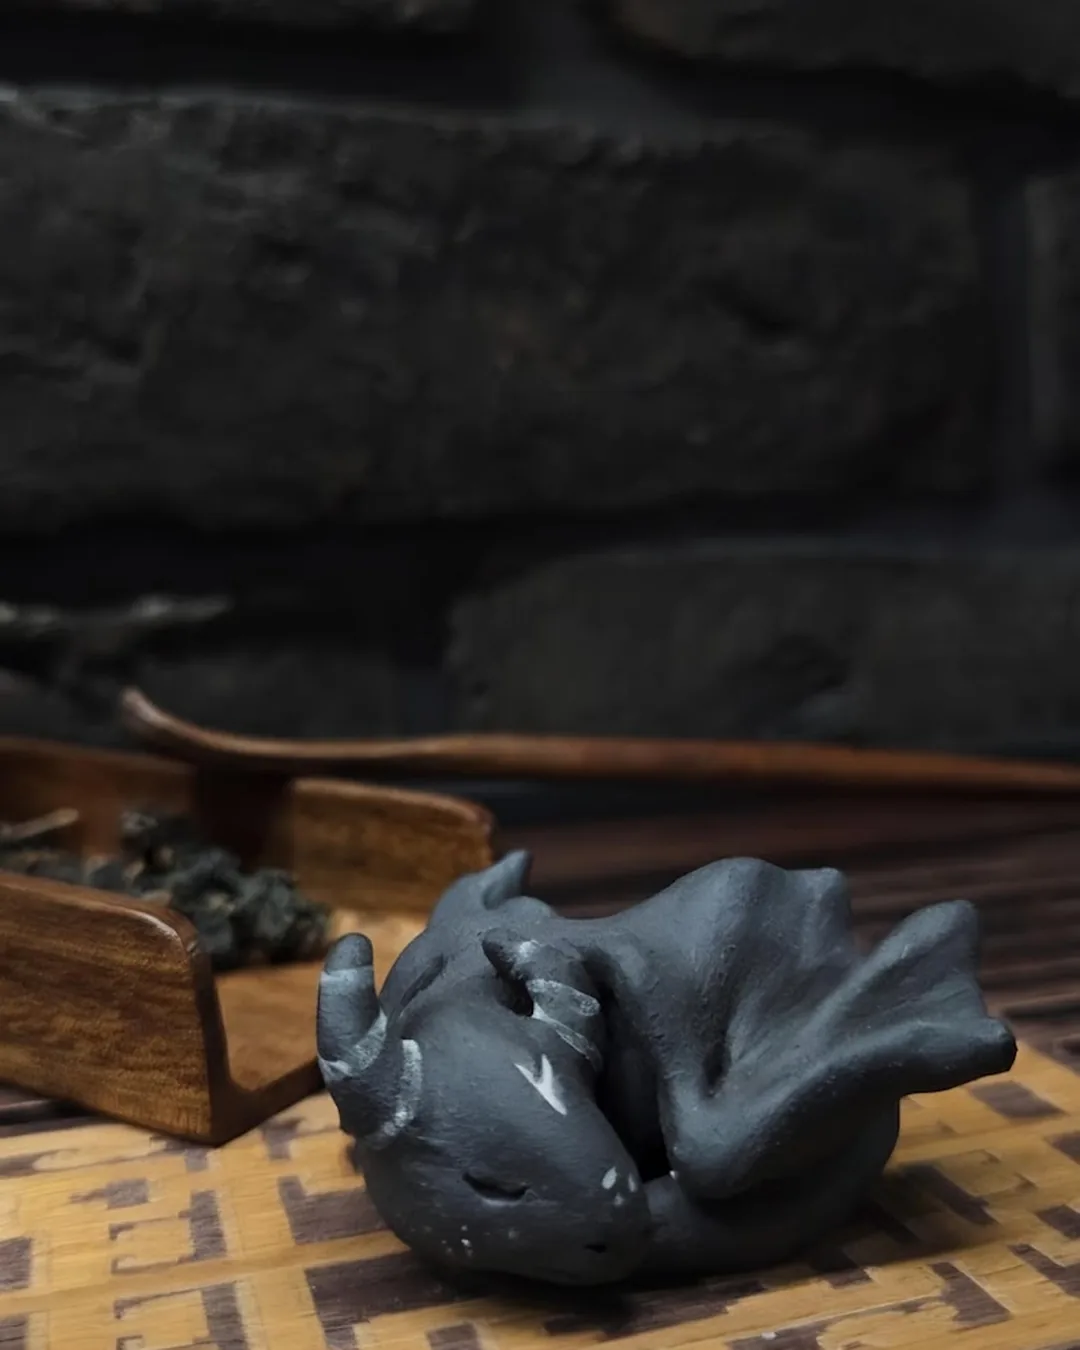
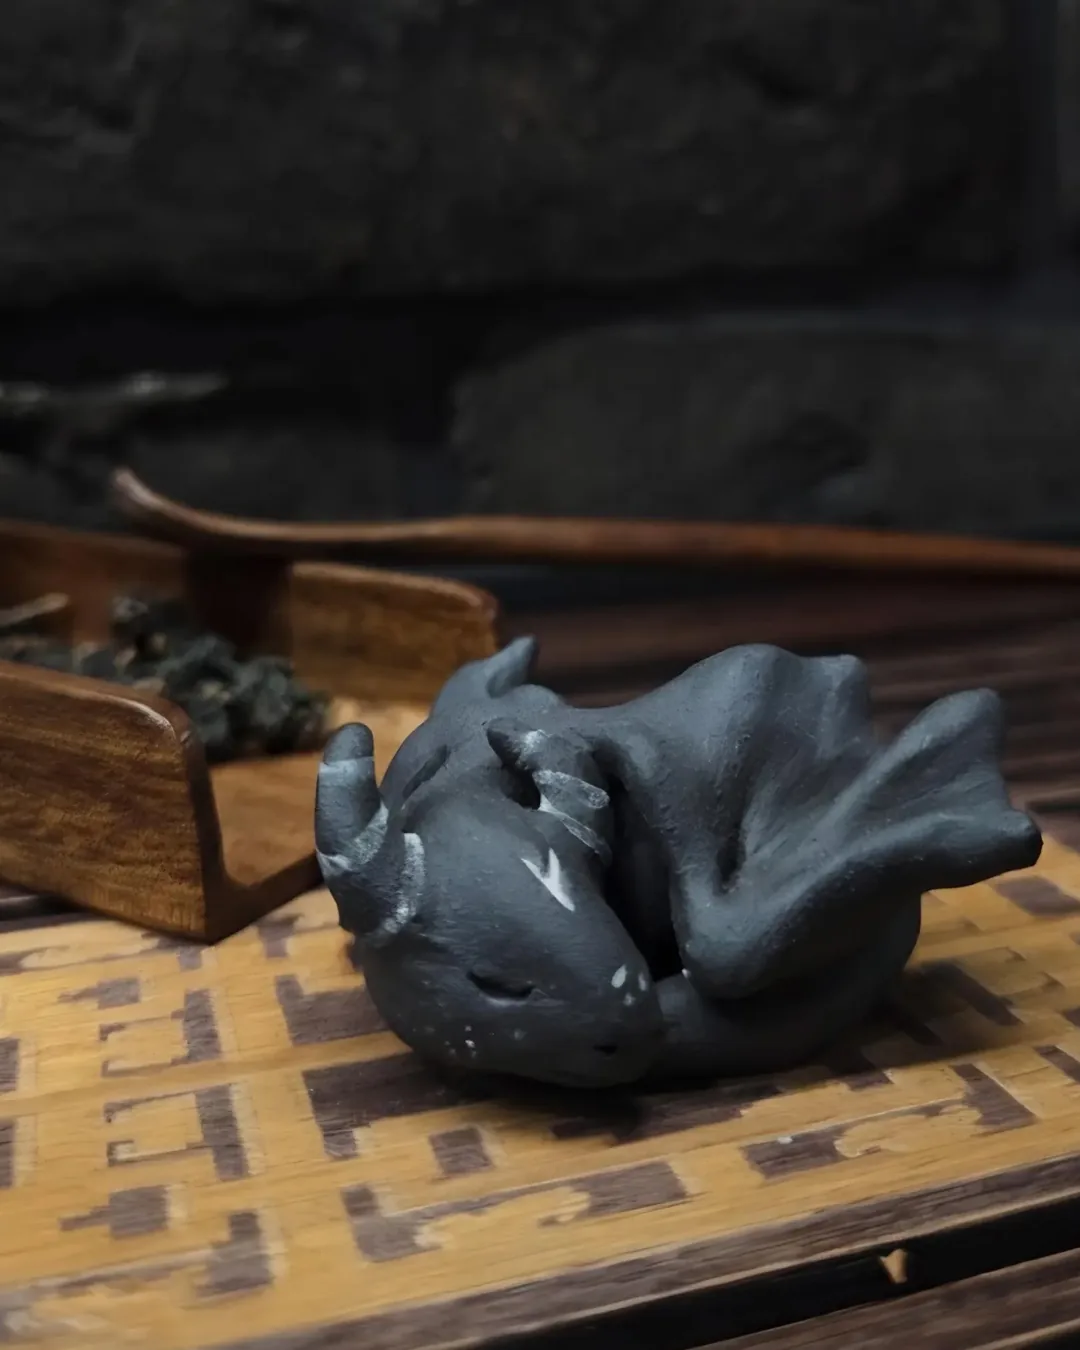
concept-hybrid: 3 куклы профили + Nox фото + почта (превью)

diff --git a/designs/concept-hybrid.html b/designs/concept-hybrid.html
@@ -624,7 +624,7 @@ footer{background:#0d0b0a;border-top:1px solid var(--line);padding:52px 0 34px}
       <div class="fb"><span class="fn">Dark Saga Art</span><span class="ft">Strange creatures of the concrete city</span></div>
       <div class="fl">
         <div class="fc"><h4>Collections</h4><a href="#cover-tea">Tea Spirits</a><a href="#cover-dolls">Art Dolls</a></div>
-        <div class="fc"><h4>Come say hi</h4><a href="https://www.etsy.com/shop/DarkSagaArt" target="_blank" rel="noopener">Etsy Shop ↗</a><a href="https://www.instagram.com/dark_saga_art" target="_blank" rel="noopener">Instagram ↗</a><a href="mailto:[email redacted]">[email redacted]</a></div>
+        <div class="fc"><h4>Come say hi</h4><a href="https://www.etsy.com/shop/DarkSagaArt" target="_blank" rel="noopener">Etsy Shop ↗</a><a href="https://www.instagram.com/dark_saga_art" target="_blank" rel="noopener">Instagram ↗</a><a href="mailto:[email redacted]">[email redacted]</a></div>
       </div>
     </div>
     <div class="fbot"><span style="white-space:nowrap">© 2026 Dark Saga Art</span><span>Handmade in small batches · no molds, no copies</span></div>
@@ -698,13 +698,13 @@ footer{background:#0d0b0a;border-top:1px solid var(--line);padding:52px 0 34px}
     {name:"Queen of Ashes",mood:"Fierce femininity, ruthless strength.",avail:1,url:"https://www.etsy.com/listing/4461757302/",img:"../assets/works/bastards/queen-of-ashes/01.webp",photos:["../assets/works/bastards/queen-of-ashes/01.webp", "../assets/works/bastards/queen-of-ashes/02.webp", "../assets/works/bastards/queen-of-ashes/03.webp", "../assets/works/bastards/queen-of-ashes/04.webp", "../assets/works/bastards/queen-of-ashes/05.webp", "../assets/works/bastards/queen-of-ashes/06.webp"],story:"She was created for light, beauty, and creation. Elegant and fragile, she loved her world and ruled it with tenderness.\n\nBut when darkness fell upon her kingdom, she did not run. Like a beautiful rose, she grew thorns of cold, forged silver. She traded her delicate rings for heavy armor and took up a two-handed sword.\n\nShe lost everything. But she will never give up, continuing to fight for her beliefs.\n\nShe is the perfect balance of fierce femininity and ruthless strength. Her dusty pink dress and fine lace are a memory of the tenderness she still holds inside. The heavy armor and sword are a promise that she will never step back.\n\nShe did not seek the war, but she will fight for all she loves. Cold. Resolute. Lethally beautiful.",series:"Bastards of the Fall",vibe:"",atmosphere:"",personality:"",profile:[{"k": "Origin", "v": "The Withered Court of the Silver Rose."}, {"k": "Likes", "v": "The scent of roses, the silence of the morning mist, and the cold weight of her sword."}, {"k": "Dislikes", "v": "Cowardice, broken promises, and being underestimated because of her lace."}, {"k": "Dreams", "v": "To see her ruined, forgotten kingdom bloom again."}, {"k": "Fears", "v": "Forgetting the warmth of the world before she had to turn to cold steel."}]},
     {name:"Iron Harlequin",mood:"Echo of the Throne.",avail:1,url:"https://www.etsy.com/listing/4475210808/",img:"../assets/works/bastards/iron-harlequin/01.webp",photos:["../assets/works/bastards/iron-harlequin/01.webp", "../assets/works/bastards/iron-harlequin/02.webp", "../assets/works/bastards/iron-harlequin/03.webp", "../assets/works/bastards/iron-harlequin/04.webp", "../assets/works/bastards/iron-harlequin/05.webp", "../assets/works/bastards/iron-harlequin/06.webp"],story:"Echo of the Throne. The court always considered him a funny little freak. Aristocrats laughed at his bows, not realizing the motley cap was the perfect vantage point. He possessed a cold, piercing mind, reading others' ambitions, fears, and conspiracies like an open book.\n\nTo everyone he was a silent laughingstock, but to the Queen he was the only advisor whose words were not poisoned by flattery. Only he had the privilege of showing her the cruelest, most unvarnished truth. The blades hidden under heavy velvet were only a final argument; his primary weapon had always been his intellect.\n\nWhen the kingdom turned to ash and the flatterers scattered, the masks fell away. The Queen stepped into the cinders to win back what remained of her world. And he, as before, silently slipped into her shadow.\n\nHe follows her through the ruined lands, completely calm, calculating, and invariably seeing through people. His loyalty is absolute and requires no words. And if anyone tries to betray his Queen, the final argument will be only the quiet, dull ring of metal before a perfectly precise strike.",series:"Bastards of the Fall",vibe:"",atmosphere:"",personality:"",profile:[{"k": "Origin", "v": "The Court of the Fallen Kingdom."}, {"k": "Likes", "v": "Silence, the absolute truth, the weight of his chains, cold steel."}, {"k": "Dislikes", "v": "Empty flattery, noisy crowds, betrayal, and bright, mindless lights."}, {"k": "Dreams", "v": "To see the Queen's domain restored from the ash, and to see the end of all lies."}, {"k": "Special feature", "v": "Exceptional four-armed dexterity and a gaze that reads human souls like an open book."}, {"k": "Fears", "v": "Failing his Queen, and becoming the mindless puppet the court once believed him to be."}]},
     {name:"Gentleman of the Lower City",mood:"A charming thief of the gas-lit city.",avail:1,url:"https://www.etsy.com/listing/[phone redacted]/",img:"../assets/works/bastards/gentleman-of-the-lower-city/01.webp",photos:["../assets/works/bastards/gentleman-of-the-lower-city/01.webp", "../assets/works/bastards/gentleman-of-the-lower-city/02.webp", "../assets/works/bastards/gentleman-of-the-lower-city/03.webp", "../assets/works/bastards/gentleman-of-the-lower-city/04.webp", "../assets/works/bastards/gentleman-of-the-lower-city/05.webp", "../assets/works/bastards/gentleman-of-the-lower-city/06.webp", "../assets/works/bastards/gentleman-of-the-lower-city/07.webp"],story:"The yellow glow of gas lamps struggles through the thick factory smog. A police whistle shrieks below, but on the wrought-iron cornice absolute calm prevails. An elegant figure in a dapper vest casually tosses a heavy coin purse. A flash of lightning reflects in his brass goggles, revealing a mocking smirk before he melts into the labyrinth of steam boilers.\n\nIn the Upper City archives his file is just wild guesses and complaints from influential aristocrats. He bears no grand titles, yet pompous lords instinctively clutch their wallets when they spot the familiar gleam of his goggles and worn leather baldric.\n\nThis fellow is a virtuoso of dark alleys and a genius of bluffing. He considers his brass prosthetic hook, a souvenir from a close call with a patrol cruiser's gears, an amusing occupational hazard. It is perfectly suited for picking complex locks, scaling drainpipes, and serving as a persuasive argument in card games.\n\nHis impeccable manners open the heaviest oak doors of high society. He robs the overly arrogant, swindles the overly confident, and escapes across rain-slicked roofs, cheerfully saluting his pursuers with his rapier. For him, every heist is high art. He leaves behind only a faint scent of machine oil, a night breeze, and absolute emptiness in their safes.\n\nAnd while panic rises below, he is already perched on a clock tower spire, casually tossing a stolen gold chronometer in his good hand, looking out for his next daring target.",series:"Bastards of the Fall",vibe:"",atmosphere:"",personality:"",profile:[{"k": "Vibe", "v": "High-society swindler and master of the bluff."}, {"k": "Likes", "v": "Extreme risks, dangerous challenges, and unpredictable adventures."}, {"k": "Dislikes", "v": "The boring, predictable life of ordinary citizens."}, {"k": "Special trick", "v": "Can pick a safe with his brass hook while giving a polite compliment."}, {"k": "Quirks", "v": "Never takes off his goggles."}]},
-    {name:"The Librarian",mood:"Keeper of forgotten languages.",avail:0,url:"https://www.etsy.com/listing/4341646227/",img:"../assets/works/bastards/the-librarian/01.webp",photos:["../assets/works/bastards/the-librarian/01.webp", "../assets/works/bastards/the-librarian/02.webp", "../assets/works/bastards/the-librarian/03.webp", "../assets/works/bastards/the-librarian/04.webp", "../assets/works/bastards/the-librarian/05.webp", "../assets/works/bastards/the-librarian/06.webp"],story:"She is a poseable textile and ceramic doll, inspired by old libraries, forgotten languages, and the soft glow of candlelight. She is not just a doll, she is a story in physical form.",series:"Bastards of the Fall",vibe:"",atmosphere:"",personality:"",profile:[]}
+    {name:"The Librarian",mood:"Keeper of forgotten languages.",avail:0,url:"https://www.etsy.com/listing/4341646227/",img:"../assets/works/bastards/the-librarian/01.webp",photos:["../assets/works/bastards/the-librarian/01.webp", "../assets/works/bastards/the-librarian/02.webp", "../assets/works/bastards/the-librarian/03.webp", "../assets/works/bastards/the-librarian/04.webp", "../assets/works/bastards/the-librarian/05.webp", "../assets/works/bastards/the-librarian/06.webp"],story:"The Librarian does not walk the streets of ordinary cities. This mystical creature belongs to the shifting corridors of the dreamscape, where fading thoughts turn into dust and lost knowledge thickens into mist. As worlds vanish and civilisations crumble, this silent keeper travels between realities, gathering the fragments of ancient stories and preserving the final whispers of forgotten knowledge before they disappear forever into absolute nothingness.\n\nThe Librarian is a living reminder that the most profound secrets, the ones that can truly change a soul, are never shouted. They are always hidden in the dark, waiting between the lines of an unread book.",series:"Bastards of the Fall",vibe:"",atmosphere:"",personality:"",profile:[{"k": "Name", "v": "Unknown. The Librarian believes everyone should keep their own secrets."}, {"k": "Origin", "v": "Born within the surreal landscape of forgotten dreams."}, {"k": "Likes", "v": "Midnight silence, the wind, lavender tea, abandoned manuscripts, and the flicker of a campfire."}, {"k": "Dislikes", "v": "Empty chatter, loud unwanted advice, and those who mistreat books."}, {"k": "Special talents", "v": "Mastering long silences, looking straight into human souls, and vanishing into thin air when least expected."}, {"k": "Secret gift", "v": "The unique ability to transform what is forgotten into what is deeply needed."}, {"k": "Vibe", "v": "Calm, observant, and reserved. A presence that feels incredibly cozy, yet beautifully strange."}]}
   ];
   var urban=[
     {name:"Master of the Forest",mood:"Old god of the city's edges.",avail:1,url:"https://www.etsy.com/listing/4493639842/",img:"../assets/works/urban/master-of-the-forest/01.webp",photos:["../assets/works/urban/master-of-the-forest/01.webp", "../assets/works/urban/master-of-the-forest/02.webp", "../assets/works/urban/master-of-the-forest/03.webp", "../assets/works/urban/master-of-the-forest/04.webp", "../assets/works/urban/master-of-the-forest/05.webp", "../assets/works/urban/master-of-the-forest/06.webp", "../assets/works/urban/master-of-the-forest/07.webp"],story:"He used to belong to the deep woods. These days his territory is broader and far less romantic: vacant lots behind supermarkets, overgrown railway embankments, courtyards between apartment blocks, abandoned construction sites, and cracks in the asphalt where green things still insist on coming back.\n\nHe watches the concrete jungle take more and more ground with a philosophical kind of amusement. The city may act like it has already won, but he is patient enough to know better. In the long run, he is certain, Nature will reclaim what is hers.\n\nHe has his own way of dealing with people, too. For the arrogant ones, the route home may suddenly become oddly unhelpful: a wrong turn here, a familiar yard that somehow feels unfamiliar there. But for someone truly looking for a way out, the right path has a habit of appearing sooner than expected.\n\nHe remembers the old world perfectly well, but he learned to live in the new one. He is curious about modern life, studies its strange inventions and habits, drinks herbal blends, appreciates a good espresso, and keeps a close eye on every small living creature that still survives among concrete and noise.\n\nIf people believe a species has disappeared, that does not necessarily mean it is gone. There is every chance the Master of the Forest has already hidden the last survivors somewhere safe, far from people and their endless plans.",series:"Urban Misfits",vibe:"",atmosphere:"",personality:"",profile:[{"k": "Who is he", "v": "An old keeper of wild places who adapted to the modern city without becoming part of it."}, {"k": "Usually found", "v": "Vacant lots, overgrown rail lines, courtyards, abandoned sites, and the edges of places people stopped noticing."}, {"k": "Temperament", "v": "Calm, stubborn, curious, and quietly amused."}, {"k": "Likes", "v": "Sunsets, herbal blends, good espresso, rare species, and all kinds of living creatures."}, {"k": "Dislikes", "v": "Waste, cruelty, pointless noise, and people who see life as disposable."}, {"k": "Belief", "v": "Nature always comes back."}, {"k": "Principles", "v": "Vegetarian. Eco-activist. On the side of the living."}, {"k": "Passion", "v": "Creating hidden sanctuaries for endangered species."}, {"k": "Quirks", "v": "He may interrupt any conversation to rescue a beetle, move a snail off the pavement, or inspect a strange seed."}]},
     {name:"The Dreamer",mood:"Lo-fi street artist.",avail:1,url:"https://www.etsy.com/listing/4344991958/",img:"../assets/works/urban/the-dreamer/01.webp",photos:["../assets/works/urban/the-dreamer/01.webp", "../assets/works/urban/the-dreamer/02.webp", "../assets/works/urban/the-dreamer/03.webp", "../assets/works/urban/the-dreamer/04.webp", "../assets/works/urban/the-dreamer/05.webp", "../assets/works/urban/the-dreamer/06.webp"],story:"He steps out when the city finally goes to sleep and the neon lights blur in the rain puddles. To the rest of the world he is just a silent shadow in a hoodie, headphones glued to his ears. But where others see only cold, blank concrete walls, he sees a canvas.\n\nHis art is a quiet conversation with the city. The hiss of his spray can is a secret language, telling stories on brick walls while lo-fi beats mix with water dripping from the roofs. By sunrise he is already high up on a rooftop, leaving his painted birds behind to remind the rushing morning crowds to stop and breathe.",series:"Urban Misfits",vibe:"",atmosphere:"",personality:"",profile:[{"k": "Likes", "v": ["Long, quiet walks through empty streets", "Painting graffiti when the city is asleep", "Lo-fi music mixed with the sound of rain", "Summer sunsets on rooftops"]}, {"k": "Dislikes", "v": ["Loud crowds and meaningless chatter", "Flashy luxury aesthetics", "Cheap bread (don't ask)"]}, {"k": "Unique traits", "v": ["Always carries his spray cans", "Often draws birds, says they reflect him best", "Feels most alive in the moments most people miss"]}]},
-    {name:"The Observer",mood:"The quiet elf.",avail:0,url:"https://www.etsy.com/listing/4419480534/",img:"../assets/works/urban/the-observer/01.webp",photos:["../assets/works/urban/the-observer/01.webp", "../assets/works/urban/the-observer/02.webp", "../assets/works/urban/the-observer/03.webp", "../assets/works/urban/the-observer/04.webp", "../assets/works/urban/the-observer/05.webp", "../assets/works/urban/the-observer/06.webp"],story:"In a loud city there is one very quiet elf. He drinks hot tea, listens to psy trance, and watches the world go by in silence. Calm and thoughtful, he likes to observe far more than he speaks.",series:"Urban Misfits",vibe:"",atmosphere:"",personality:"Calm · Thoughtful · Quiet · Observant",profile:[]},
-    {name:"The Garden Snail",mood:"Slow and cheerful wanderer.",avail:0,url:"https://www.etsy.com/listing/4423741901/",img:"../assets/works/urban/the-garden-snail/01.webp",photos:["../assets/works/urban/the-garden-snail/01.webp", "../assets/works/urban/the-garden-snail/02.webp", "../assets/works/urban/the-garden-snail/03.webp", "../assets/works/urban/the-garden-snail/04.webp", "../assets/works/urban/the-garden-snail/05.webp", "../assets/works/urban/the-garden-snail/06.webp"],story:"A whimsical cottagecore wanderer who carries his whole world on his back. More than a doll, he is a small handcrafted sculpture of the slow and cheerful beauty of the natural world, in no rush to be anywhere at all.",series:"Urban Misfits",vibe:"",atmosphere:"",personality:"",profile:[]}
+    {name:"The Observer",mood:"The quiet elf.",avail:0,url:"https://www.etsy.com/listing/4419480534/",img:"../assets/works/urban/the-observer/01.webp",photos:["../assets/works/urban/the-observer/01.webp", "../assets/works/urban/the-observer/02.webp", "../assets/works/urban/the-observer/03.webp", "../assets/works/urban/the-observer/04.webp", "../assets/works/urban/the-observer/05.webp", "../assets/works/urban/the-observer/06.webp"],story:"While the modern city screams in a blur of neon and traffic, he sits right in the middle of it, completely untouched by the noise. With his favorite plant pot safely by his side and a cup of steaming tea in his hands, this modern elf tunes into a different frequency.\n\nBehind his calm, thoughtful eyes is a mind that reads the city's hidden rhythms. To him, the steady, hypnotic beats of psy-trance are the perfect background music for watching the clouds shift and the daylight change. He communicates through the precise, elegant strokes of his calligraphy brushes and the little conversations he shares with his plants.",series:"Urban Misfits",vibe:"",atmosphere:"",personality:"",profile:[{"k": "Personality", "v": ["Calm and thoughtful", "Quiet, likes to observe", "Very neat and careful"]}, {"k": "Likes", "v": ["Drinking tea", "Calligraphy and sumi-e", "Psy trance and deep, steady beats", "Plants and green corners at home", "Watching the sky, trees and changing light"]}, {"k": "Little quirk", "v": ["Talks to his plants", "Feels safe when his favorite plant pot is close"]}]},
+    {name:"The Garden Snail",mood:"Slow and cheerful wanderer.",avail:0,url:"https://www.etsy.com/listing/4423741901/",img:"../assets/works/urban/the-garden-snail/01.webp",photos:["../assets/works/urban/the-garden-snail/01.webp", "../assets/works/urban/the-garden-snail/02.webp", "../assets/works/urban/the-garden-snail/03.webp", "../assets/works/urban/the-garden-snail/04.webp", "../assets/works/urban/the-garden-snail/05.webp", "../assets/works/urban/the-garden-snail/06.webp"],story:"This cheerful little spirit lives where the morning dew meets the scent of wild strawberries. While the rest of the world rushes by in a blur of fast decisions, this gentle creature prefers a different pace: one measured in summer rain showers and the slow opening of flower petals.\n\nEquipped with a tiny, naive heart and an unshakeable belief in magic, this soul keeps a watchful eye over the garden, whispering to growing seedlings and tracking the sun across the leaves. To this whimsical companion, every blooming bud is a miracle, and every quiet corner of the forest is a safe haven.",series:"Urban Misfits",vibe:"",atmosphere:"",personality:"",profile:[{"k": "Likes", "v": ["Warm rain in summer", "Growing plants and flowers", "Slow walks in the garden"]}, {"k": "Dislikes", "v": ["Fast decisions", "Chaos", "Rude and unfriendly guys"]}]}
   ];
   var spores=[
     {name:"Skyline Nomad",mood:"Rooftop spirit chasing wind.",avail:1,url:"https://www.etsy.com/listing/4508369970/",img:"../assets/works/spores/skyline-nomad/01.webp",photos:["../assets/works/spores/skyline-nomad/01.webp", "../assets/works/spores/skyline-nomad/02.webp", "../assets/works/spores/skyline-nomad/03.webp", "../assets/works/spores/skyline-nomad/04.webp", "../assets/works/spores/skyline-nomad/05.webp", "../assets/works/spores/skyline-nomad/06.webp"],story:"He dwells where the city's concrete constraints end and the open expanse begins. The Skyline Nomad is a spirit of the heights, driven by a physical need for the wind in his face and constant motion. He shares the upper realm with the birds and balances on the edges of the abyss for the pure, intoxicating feeling of freedom.\n\nIf you have ever felt the urge to escape the suffocating noise of the streets and find peace on a high, wind-swept roof, this little nomad is your perfect companion. He is a listener for those who find comfort and freedom in the heights.",series:"Spores",vibe:"",atmosphere:"",personality:"",profile:[{"k": "Likes", "v": "The smell of ozone right before a thunderstorm, the vibration of subway trains echoing up through the walls, the rumble of old ventilation units."}, {"k": "Dislikes", "v": "Sitting still for too long."}, {"k": "Biggest fear", "v": "Being permanently grounded, or trapped in a windowless basement."}, {"k": "Habits", "v": "Dropping tiny pebbles down deep ventilation shafts to listen to the echo bounce."}, {"k": "Secrets", "v": "Hides a collection of small human things snatched under loose roof tiles."}]},